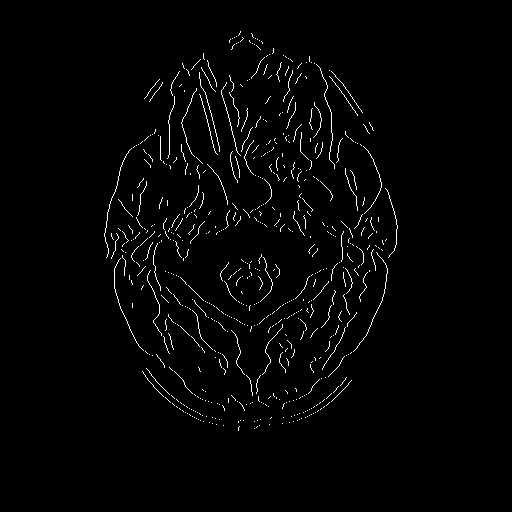
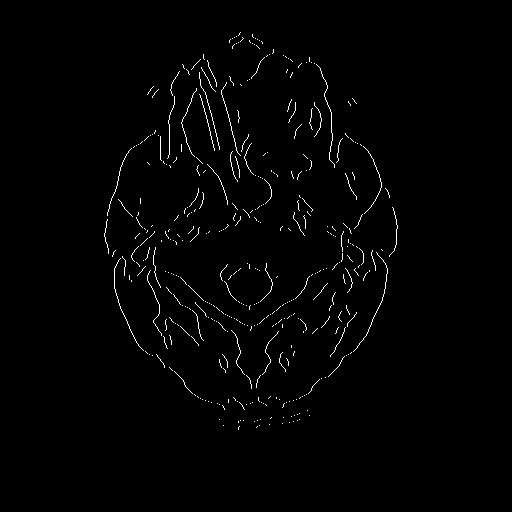
img

Changed region(s): [[0.6562, 0.1562, 0.6875, 0.1875], [0.2812, 0.7188, 0.3125, 0.75]]

diff --git a/doMagnitudeAngle.m b/doMagnitudeAngle.m
@@ -1,8 +1,10 @@
-%files = dir('./images/*.png');
+%files = dir('./slike_med/*.png'); %for medfilt2
+files = dir('./slike/*.png');
 
-%for file = files'
-  %  slice = imread(strcat('./images/', file.name));
-    slice = imread('0001.png');
+for file = files'
+    %slice = imread(strcat('./slike_med/', file.name)); %for medfilt2
+    slice = imread(strcat('./slike_med/', file.name));
+    %slice = imread('0001-100x700.png');
 
     sigma=min(size(slice))*0.005;
     fslice = imgaussfilt(im2double(slice), sigma); %sigma is a value od standard deviation
@@ -73,9 +75,12 @@
 
     % N2: Hysteresis thresholding (separation into strong and weak edge pixels)
     % N3: Form longer edges (edge-linking w/ 8-connectivity of weak pixels to strong pixels)
+    
+    [c, b] = imhist(im)
+    THh = (86); %TH value from histogram
 
     TL = 0.075; %polovica TH
-    TH = 0.175; %doloci otsc
+    TH = 0.15; 
 
     TL = TL*max(max(mag))
     TH = TH*max(max(mag))
@@ -99,7 +104,8 @@
     figure; imshow(T); title('Hysteresis thresholding');
 
     final = im2uint8(T);
-    imwrite(final, strcat('0001_TM.png'));
+    %imwrite(final, strcat('./rezultat_median/', file.name)); %for medfilt2
+    imwrite(final, strcat('./rezultat/', file.name));
     %Show final edge detection result
     figure, imshow(final); title('final');
     
@@ -126,9 +132,11 @@
     figure; imshow(T1); title('Hysteresis thresholding T1');
 
     final = im2uint8(T1);
-    imwrite(final, strcat('0001_T1M.png'));
+    %imwrite(final, strcat('./rezultat_izboljsava_median/', file.name));
+    %%for medfilt2
+    imwrite(final, strcat('./rezultat_izboljsava/', file.name));
     %Show final edge detection result
     figure, imshow(final); title('final1');
     %%%%%%%%%%%%%%%%%%%%%%%%%%%%%%%%%%%%%%%%%%%%%%%%%%%%%%%%%%%%%%%%%%%%%%%%%%%%%%%%%%%%%%%%%%%%%%%%%%%%%%%%%%%%%%%%%%
 
-%end
+end
